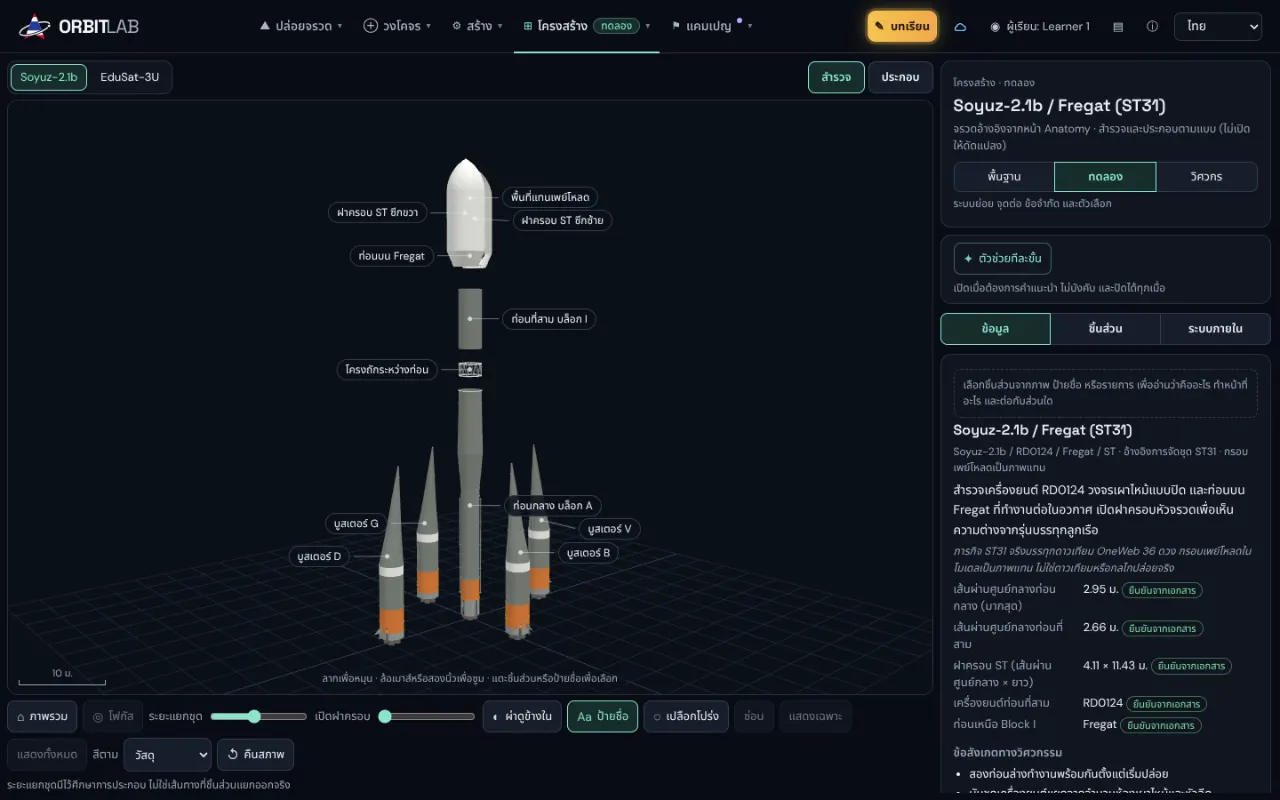
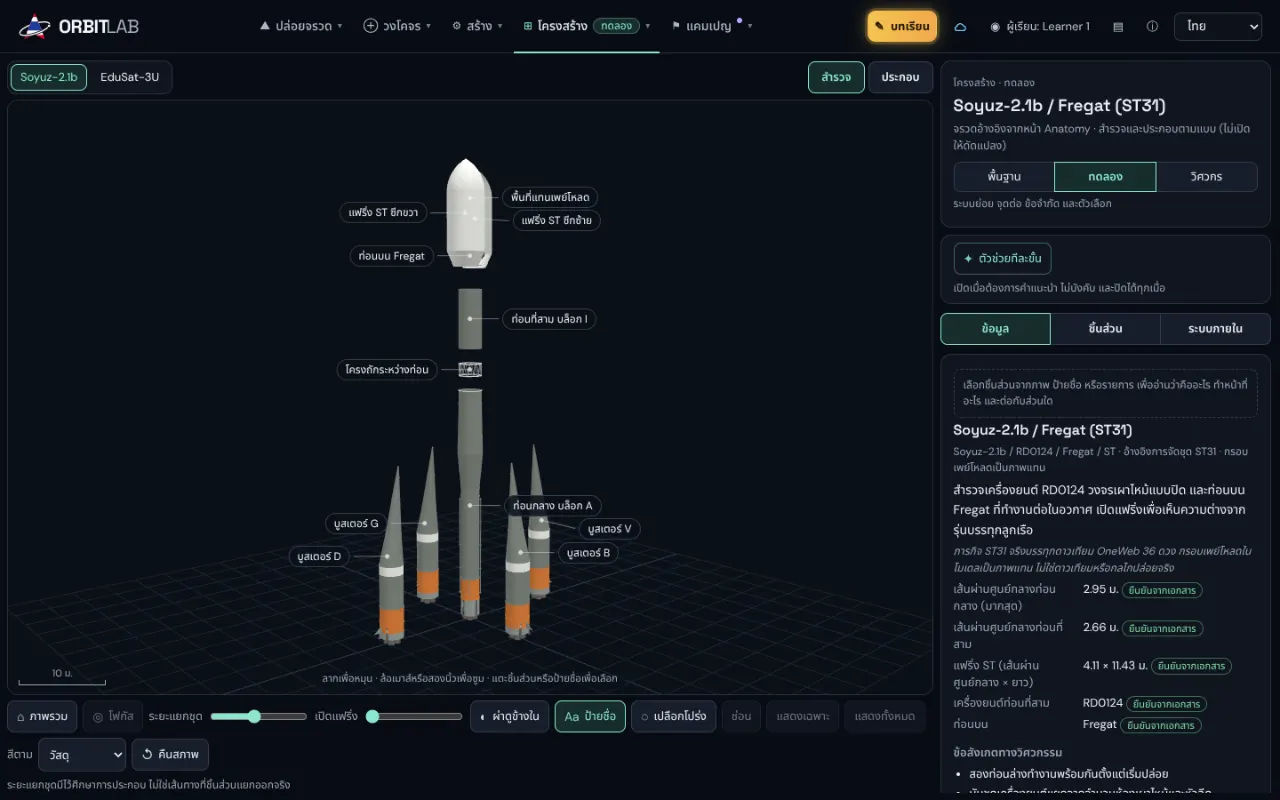
Home (bug fix): the Thai picture of the Structure chapter shows the section's own words (#218)
The landing page's Thai picture of the Structure & Assembly chapter
(public/home/structure.th.webp) labelled the fairing's two halves
"ฝาครอบ ST". The section and the Soyuz-2.1b Anatomy page say แฟริ่ง since
#217: the picture had been taken again early in that round and was not
taken once more when the round's review settled the word. No test reads a
picture's words.

Taken again from main (1ddf187) with npm run shots -- structure; the English
and Russian pictures are as they were. One picture, fetched when the chapter
comes into view: not precached and in no budget ceiling. The report says how
it was missed (15.6a); the change fragment has its line.

Tests: no code changed. CI 43554806932 on e761d29: 9 of 9 (the
structure-entries journey loads this picture).

Merged on the owner's request in chat, 2026-11-14: "อนุญาตให้ merge pull
request #218 เข้า main".

Claude-Session: https://claude.ai/code/session_01TKnZLJJHRDGDsCkPtPdVv8

diff --git a/changes/claude-trusting-cannon-oah00c.md b/changes/claude-trusting-cannon-oah00c.md
@@ -1,7 +1,9 @@
 ## CHANGELOG
 
 - Structure & Assembly (owner's requests 2026-11-09 and 2026-11-10, a pilot in its second version): a fourth section, `#/structure`, fetched when it opens, to read Soyuz-2.1b/Fregat ST31 from the owner's Anatomy model at three depths (assemblies; groups, joints and fifteen internal circuits; every part), assemble its main assemblies to the reference, and to explore and assemble the educational satellite EduSat-3U, change its battery and camera, and see its mass and a sunlit/eclipse energy balance change before sending it to Orbit or Launch. The top bar's section tabs are fitted to the room the bar has. On the owner's answers of 2026-11-13: the rocket can also be assembled in the order of the launch site at Vostochny (lying, in two places at once, then final integration, roll-out and erection); sources are folded at the foot of each card; the words of each language were checked against that language's own sources; a chapter on the landing page and links from Build and Launch lead in; and the Anatomy page's interstage sentence names RD0124. On the owner's second answers of that day: the section's Thai and the Soyuz-2.1b Anatomy page's use the words of Thai agencies and press (ท่อน, ท่อนกลาง, แฟริ่ง, เพย์โหลด, เชื้อเพลิง, การทรงตัว, เงามืดของโลก), and the page's list of sources names the 2.1a for RD0110.
+- Home (bug fix): the Thai picture of the Structure & Assembly chapter shows the section as it is — its fairing halves are labelled แฟริ่ง, as the section says since #217; the picture merged with #217 had been taken before that word was settled and still said ฝาครอบ.
 
 ## PROGRESS
 
 | Structure & Assembly pilot, second version (owner's requests 2026-11-09 and 2026-11-10, no plan package) | PR #217, merged on the owner's word of 2026-11-13 | New section `#/structure/<level>/<model>[/assemble\|/experiment]` as a chunk of its own with one adapter per model; model files of revision 4 from the Anatomy page (`npm run structure`); assembly rules, EduSat-3U by CDS Rev. 14.1 and its energy balance; hand-offs to Orbit and Launch with receipts read back; Thai source text, English and Russian drafts; 201 unit tests in `tests/structure-*.test.ts`, browser journeys `structure-assembly` and `structure-failures`, the whole suite and CI green; reviewed by separate Claude agents in five lenses (45 findings, all fixed or answered; not by Astra); bundle ceilings raised with the owner's approvals of 2026-11-12 and 2026-11-13 (D-38); the top bar's tabs fitted by measuring | [report](docs/development/reports/structure-assembly-pilot.md) |
+| Home's Thai picture of the Structure chapter retaken (a follow-up to #217; my own miss, found after the merge) | In draft PR; not merged; not published | `public/home/structure.th.webp` taken again by `npm run shots -- structure` on main `1ddf187`; one file, not precached and in no ceiling; checked by eye and by the `structure-entries` journey | [report](docs/development/reports/structure-assembly-pilot.md) |

diff --git a/docs/development/reports/structure-assembly-pilot.md b/docs/development/reports/structure-assembly-pilot.md
@@ -626,6 +626,10 @@ Not reviewed by GPT-6 Astra.
 
 The owner's word to merge was given with the three answers above, and covers the pull request with them done. It is merged, in the repository's own way (one squashed commit), when every check of the pull request is green on its head; a merge to `main` publishes to the live site. Before this round the checks of the browser had not run on GitHub for the work of §14, because the build check failed on the budget first.
 
+### 15.6a After the merge: the landing page's Thai picture (a miss of mine)
+
+Merged as `1ddf187` on 2026-11-14 with the pull request's nine checks green on `32b9c56`. One thing was then found wrong in what was merged: the landing page's Thai picture of the section (`public/home/structure.th.webp`) had been taken again early in this round, while the fairing was still to be called ฝาครอบหัวจรวด, and was not taken once more when the review settled on แฟริ่ง. It showed the two halves labelled "ฝาครอบ ST", which the section no longer says. No test reads a picture's words. The picture is taken again from `main` in a follow-up pull request of that one file, which waits for the owner's word to merge like any other.
+
 ### 15.7 This round's commits
 
 | Commit | What |
